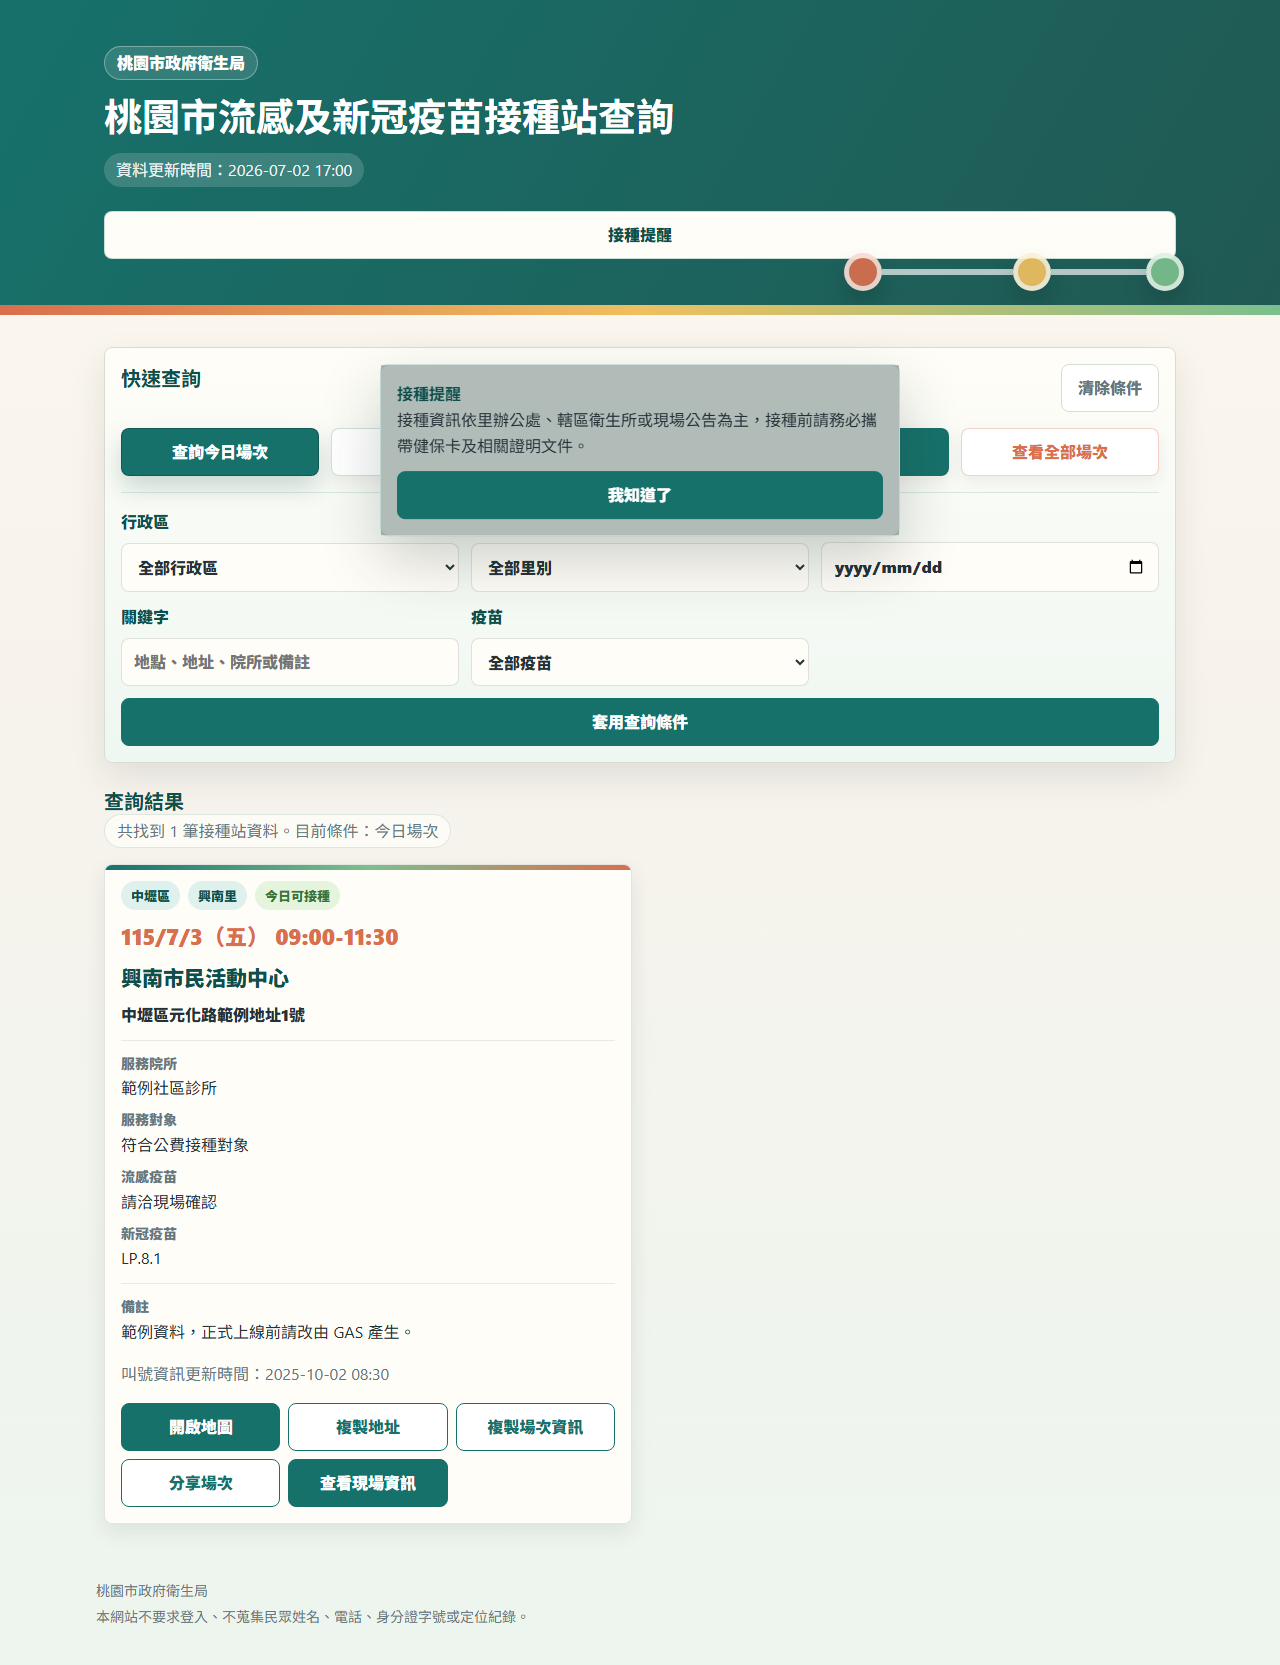
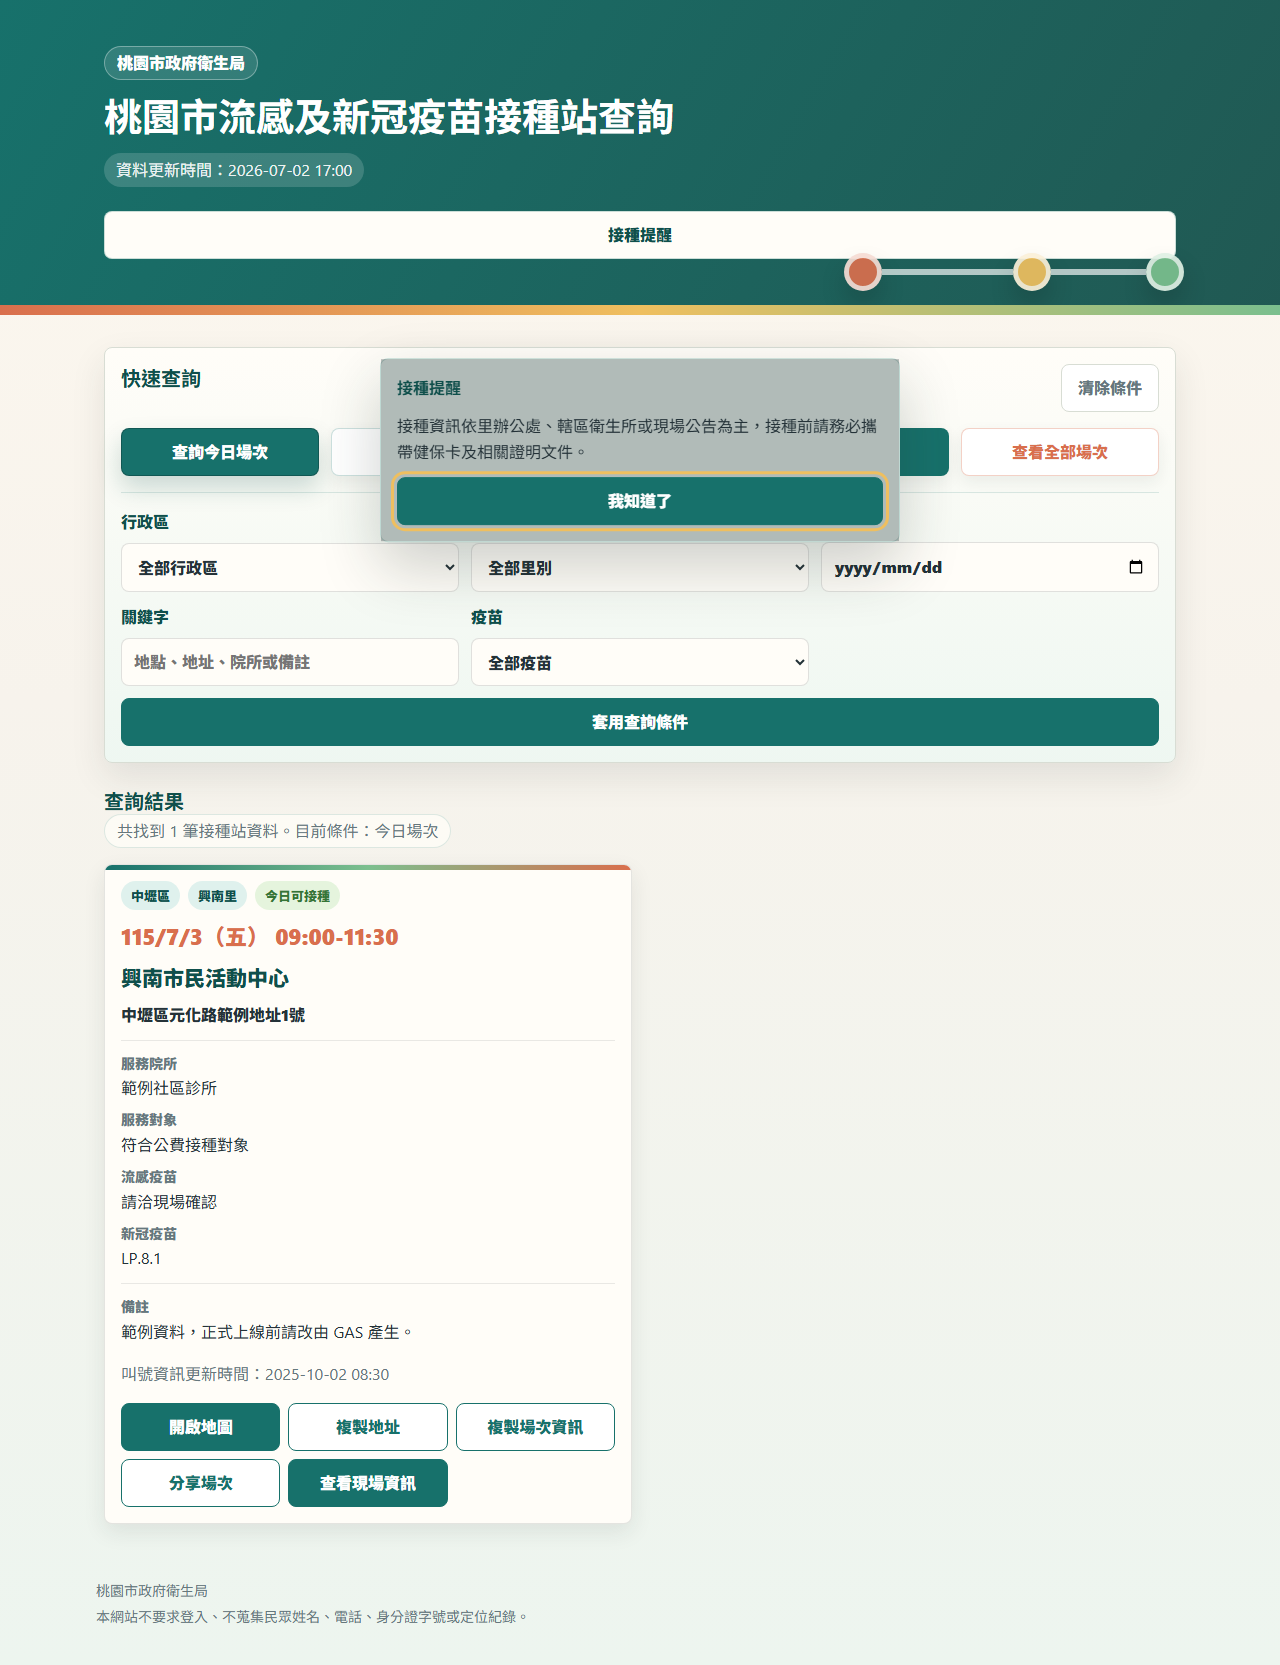
[UI介面] fix：補強提醒彈窗與空狀態流程

Changed region(s): [[0.3125, 0.1874, 0.6875, 0.3435]]

diff --git a/流感及新冠疫苗社區設站網站/gas/Index.html b/流感及新冠疫苗社區設站網站/gas/Index.html
@@ -1174,14 +1174,14 @@
 
     function renderMaintain() {
       const box = document.querySelector('#maintainList');
-      box.innerHTML = appState.sites.length ? appState.sites.map(siteCard).join('') : '<p>目前沒有資料。</p>';
+      box.innerHTML = appState.sites.length ? appState.sites.map(siteCard).join('') : emptyInfoBox('目前沒有資料。');
       bindSiteActions();
     }
 
     function renderReport() {
       const box = document.querySelector('#reportList');
       const reportable = appState.sites.filter((site) => site['資料狀態'] === '已發布');
-      box.innerHTML = reportable.length ? reportable.map(reportCard).join('') : '<p>目前沒有可回報場次。</p>';
+      box.innerHTML = reportable.length ? reportable.map(reportCard).join('') : emptyInfoBox('目前沒有可回報場次。');
       bindReportActions();
     }
 
@@ -1189,6 +1189,10 @@
       const box = document.querySelector('#searchList');
       box.innerHTML = rows && rows.length ? rows.map(siteCard).join('') : '<div class="info-box">查無符合條件的資料。</div>';
       bindSiteActions();
+    }
+
+    function emptyInfoBox(message) {
+      return `<div class="info-box">${escapeHtml(message)}</div>`;
     }
 
     function renderStats() {
@@ -1212,20 +1216,20 @@
         statHtml('尚未設站', coverage.uncoveredCount || 0)
       ].join('');
       const rows = coverage.uncovered || [];
-      document.querySelector('#uncoveredVillageList').innerHTML = rows.length ? rows.map(uncoveredVillageCard).join('') : '<p class="muted">目前沒有未設站里別，或尚未建立里別清冊。</p>';
+      document.querySelector('#uncoveredVillageList').innerHTML = rows.length ? rows.map(uncoveredVillageCard).join('') : emptyInfoBox('目前沒有未設站里別，或尚未建立里別清冊。');
       document.querySelector('#uncoveredVillageText').textContent = coverage.reminderText || '';
     }
 
     function renderUnlockReviews() {
       const pending = appState.sites.filter((site) => site['解鎖申請狀態'] === '待審核');
       const box = document.querySelector('#unlockReviewList');
-      box.innerHTML = pending.length ? pending.map(unlockReviewCard).join('') : '<p class="muted">目前沒有待審核解鎖申請。</p>';
+      box.innerHTML = pending.length ? pending.map(unlockReviewCard).join('') : emptyInfoBox('目前沒有待審核解鎖申請。');
       bindUnlockReviewActions();
     }
 
     function renderDelivery() {
       const box = document.querySelector('#deliveryList');
-      box.innerHTML = appState.deliveryTasks.length ? appState.deliveryTasks.map(deliveryCard).join('') : '<p>目前沒有配送任務。</p>';
+      box.innerHTML = appState.deliveryTasks.length ? appState.deliveryTasks.map(deliveryCard).join('') : emptyInfoBox('目前沒有配送任務。');
       bindDeliveryActions();
       renderDeliveryItems();
     }
@@ -1245,7 +1249,7 @@
 
     function renderVendorTasks(result) {
       const tasks = result.tasks || [];
-      document.querySelector('#vendorTaskList').innerHTML = tasks.length ? tasks.map(vendorTaskCard).join('') : '<p>此廠商目前沒有配送任務。</p>';
+      document.querySelector('#vendorTaskList').innerHTML = tasks.length ? tasks.map(vendorTaskCard).join('') : emptyInfoBox('此廠商目前沒有配送任務。');
       document.querySelectorAll('[data-vendor-report]').forEach((button) => {
         button.addEventListener('click', () => {
           const taskId = button.dataset.vendorReport;

diff --git a/流感及新冠疫苗社區設站網站/public/app.js b/流感及新冠疫苗社區設站網站/public/app.js
@@ -25,6 +25,7 @@ const elements = {
   cardList: document.querySelector("#cardList"),
   resetButton: document.querySelector("#resetButton"),
   noticeButton: document.querySelector("#noticeButton"),
+  closeNoticeButton: document.querySelector("#closeNoticeButton"),
   noticePanel: document.querySelector(".notice"),
   browserHint: document.querySelector("#browserHint")
 };
@@ -53,10 +54,12 @@ function bindEvents() {
   elements.districtFilter.addEventListener("change", () => {
     populateVillageOptions();
     render();
+    scrollToResults();
   });
 
   elements.resetButton.addEventListener("click", resetFilters);
   elements.noticeButton.addEventListener("click", openNotice);
+  elements.closeNoticeButton.addEventListener("click", closeNotice);
   document.addEventListener("keydown", (event) => {
     if (event.key === "Escape") closeNotice();
   });
@@ -165,6 +168,7 @@ function requestLocation() {
     showMessage("此瀏覽器不支援定位。您仍可使用行政區、日期或地點查詢。", "info");
     state.quickMode = "all";
     render();
+    scrollToResults();
     return;
   }
 
@@ -191,6 +195,8 @@ function requestLocation() {
 
 function resetFilters() {
   elements.filterForm.reset();
+  elements.districtFilter.dataset.initial = "";
+  elements.villageFilter.dataset.initial = "";
   state.quickMode = "all";
   state.userLocation = null;
   state.siteId = "";
@@ -523,27 +529,19 @@ function hideMessage() {
 
 function openNotice() {
   elements.noticePanel.classList.add("is-open");
-  ensureNoticeCloseButton();
+  document.body.classList.add("notice-open");
+  elements.closeNoticeButton.focus({ preventScroll: true });
 }
 
 function closeNotice() {
   elements.noticePanel.classList.remove("is-open");
+  document.body.classList.remove("notice-open");
 }
 
 function openNoticeOnce() {
   if (sessionStorage.getItem("vaccineNoticeSeen") === "1") return;
   sessionStorage.setItem("vaccineNoticeSeen", "1");
   openNotice();
-}
-
-function ensureNoticeCloseButton() {
-  if (elements.noticePanel.querySelector(".notice-close")) return;
-  const closeButton = document.createElement("button");
-  closeButton.type = "button";
-  closeButton.className = "notice-close";
-  closeButton.textContent = "我知道了";
-  closeButton.addEventListener("click", closeNotice);
-  elements.noticePanel.append(closeButton);
 }
 
 function scrollToResults() {

diff --git a/流感及新冠疫苗社區設站網站/public/index.html b/流感及新冠疫苗社區設站網站/public/index.html
@@ -27,9 +27,10 @@
   </header>
 
   <main class="layout" id="mainContent">
-    <section class="notice" aria-label="重要提醒">
-      <strong>接種提醒</strong>
+    <section class="notice" role="dialog" aria-modal="true" aria-labelledby="noticeTitle" aria-describedby="noticeText">
+      <strong id="noticeTitle">接種提醒</strong>
       <p id="noticeText">資料讀取中。</p>
+      <button class="notice-close" type="button" id="closeNoticeButton">我知道了</button>
     </section>
 
     <section class="browser-hint" id="browserHint" hidden>

diff --git a/流感及新冠疫苗社區設站網站/public/styles.css b/流感及新冠疫苗社區設站網站/public/styles.css
@@ -233,6 +233,10 @@ h2 {
   border-color: rgba(23, 113, 107, 0.22);
 }
 
+body.notice-open {
+  overflow: hidden;
+}
+
 .notice,
 .browser-hint,
 .search-panel,
@@ -257,7 +261,8 @@ h2 {
 }
 
 .notice.is-open {
-  display: block;
+  display: grid;
+  gap: var(--space-3);
 }
 
 .notice::before {
@@ -282,7 +287,10 @@ h2 {
 
 .notice-close {
   width: 100%;
-  margin-top: var(--space-3);
+}
+
+.result-area:focus {
+  outline: none;
 }
 
 .notice strong,

diff --git a/流感及新冠疫苗社區設站網站/version.py b/流感及新冠疫苗社區設站網站/version.py
@@ -1,3 +1,3 @@
-VERSION = "0.55.0"
+VERSION = "0.56.0"
 PROJECT_NAME = "流感及新冠疫苗社區設站網站"
 UPDATED_AT = "2026-07-03"

diff --git a/流感及新冠疫苗社區設站網站/docs/DEPLOYMENT_RECORD.md b/流感及新冠疫苗社區設站網站/docs/DEPLOYMENT_RECORD.md
@@ -91,6 +91,7 @@ firebase deploy --only hosting
 
 | 日期 | 部署人 | commit | Firebase 專案 ID | Hosting 網址 | 結果 | 備註 |
 |---|---|---|---|---|---|---|
+| 2026-07-03 11:16 | Codex / Firebase CLI | `732d741` | `tychb-vaccineweb` | `https://tychb-vaccineweb.web.app` | 成功 | `firebase deploy --only hosting --project tychb-vaccineweb` 成功；Firebase version `projects/839752443010/sites/tychb-vaccineweb/versions/7a6c9ec89f7b527a`，release `projects/839752443010/sites/tychb-vaccineweb/channels/live/releases/1783048591165000`。本次部署民眾端固定 modal 關閉按鈕、背景捲動鎖定與查詢流程修正。 |
 | 2026-07-03 11:04 | Codex / Firebase CLI | `d7c2b0f` | `tychb-vaccineweb` | `https://tychb-vaccineweb.web.app` | 成功 | `firebase deploy --only hosting --project tychb-vaccineweb` 成功；Firebase version `projects/839752443010/sites/tychb-vaccineweb/versions/f03d14fc125fb02d`，release `projects/839752443010/sites/tychb-vaccineweb/channels/live/releases/1783047873552000`。本次部署民眾端接種提醒彈窗與查詢後移動到結果區。 |
 | 2026-07-03 10:12 | Codex / Firebase CLI | `94d893c` | `tychb-vaccineweb` | `https://tychb-vaccineweb.web.app` | 成功 | `firebase deploy --only hosting --project tychb-vaccineweb` 成功；Firebase version `projects/839752443010/sites/tychb-vaccineweb/versions/fff5d9d66623dac6`，release `projects/839752443010/sites/tychb-vaccineweb/channels/live/releases/1783044733185000`。線上檢查通過，`app.js` 已含 `syncQuickActionState`、`aria-pressed`、`empty-mark`，CSS 已含快速查詢選取狀態、查詢摘要膠囊與卡片頂部色帶。 |
 | 2026-07-03 10:06 | Codex / Firebase CLI | `cd27ca1` | `tychb-vaccineweb` | `https://tychb-vaccineweb.web.app` | 成功 | `firebase deploy --only hosting --project tychb-vaccineweb` 成功；Firebase version `projects/839752443010/sites/tychb-vaccineweb/versions/a8ced0f0356e3950`，release `projects/839752443010/sites/tychb-vaccineweb/channels/live/releases/1783044384575000`。線上檢查通過，首頁已含 `header-inner`、`route-visual`，CSS 已含新版溫暖色系與結果區透明化樣式。 |
@@ -101,6 +102,7 @@ firebase deploy --only hosting
 
 | 日期 | 部署人 | Apps Script 專案 ID | Web App 部署 ID | 版本 | 結果 | 備註 |
 |---|---|---|---|---|---|---|
+| 2026-07-03 11:17 | Codex / clasp | `1dKdl7kRc-TyFLKOsaA09M4vNoqn6uU-FG2aSXl5M1bl9Kc9vgJ9h8oSR` | `AKfycbwNVIuv6lOjovyXejbBVEEXwQ2FH36v8EGyNDmNN8E7-JOI2G7gGE8kfBBhb3fTQ3jnsw` | `6` | 推送成功、部署成功、線上寫入測試通過 | `clasp push`、`clasp version "社區接種站填報系統V1.4 UI流程修正"`、`clasp redeploy ... -V 6 -d ...` 成功。GAS 主要清單空狀態改為盒狀訊息；`npm run test:gas:write` 通過，最新假資料 `SITE-20261231-0011` 已下架且未出現在公開 JSON。 |
 | 2026-07-03 11:05 | Codex / clasp | `1dKdl7kRc-TyFLKOsaA09M4vNoqn6uU-FG2aSXl5M1bl9Kc9vgJ9h8oSR` | `AKfycbwNVIuv6lOjovyXejbBVEEXwQ2FH36v8EGyNDmNN8E7-JOI2G7gGE8kfBBhb3fTQ3jnsw` | `5` | 推送成功、部署成功、線上寫入測試通過 | `clasp push`、`clasp version "社區接種站填報系統V1.3 UI流程調整"`、`clasp redeploy ... -V 5 -d ...` 成功。GAS 後台部署 PC 一頁式填報、進階篩選與面板化 UI；`npm run test:gas:write` 通過，最新假資料 `SITE-20261231-0010` 已下架且未出現在公開 JSON。 |
 | 2026-07-03 10:39 | Codex / clasp | `1dKdl7kRc-TyFLKOsaA09M4vNoqn6uU-FG2aSXl5M1bl9Kc9vgJ9h8oSR` | `AKfycbwNVIuv6lOjovyXejbBVEEXwQ2FH36v8EGyNDmNN8E7-JOI2G7gGE8kfBBhb3fTQ3jnsw` | `4` | 推送成功、部署成功、線上寫入測試通過 | 修正 `objectFromRow_()` 將 Google Sheet `Date` 物件轉成可由 `google.script.run` 回傳的字串，並讓接種日期維持 `yyyy-MM-dd`；`npm run test:gas:write` 通過，最新假資料 `SITE-20261231-0009` 已下架且未出現在公開 JSON。 |
 | 2026-07-03 09:39 | Codex / clasp | `1dKdl7kRc-TyFLKOsaA09M4vNoqn6uU-FG2aSXl5M1bl9Kc9vgJ9h8oSR` | `AKfycbwNVIuv6lOjovyXejbBVEEXwQ2FH36v8EGyNDmNN8E7-JOI2G7gGE8kfBBhb3fTQ3jnsw` | `2` | 推送成功、部署成功、瀏覽器實測待承辦人確認 | 已推送 `程式碼.js`、`Index.html`、`appsscript.json`；部署清單顯示 `社區接種站填報系統V1.0 @2`。命令列直接檢查 `/exec` 回傳 `403 Forbidden`。 |

diff --git a/流感及新冠疫苗社區設站網站/docs/TEST_EXECUTION_RECORD.md b/流感及新冠疫苗社區設站網站/docs/TEST_EXECUTION_RECORD.md
@@ -43,7 +43,17 @@
 | UI 流程調整 GAS Web App 檢查 | `npm run test:gas:webapp` | 通過 | 已檢查正確 Web App URL HTTP 200 與 GAS 首頁入口，截圖 `docs/test-evidence/gas-webapp-home.png` |
 | UI 流程調整 GAS 假資料寫入檢查 | `npm run test:gas:write` | 通過 | 最新測試假資料 ID `SITE-20261231-0010`，測試最後已下架且公開 JSON 不含該資料 |
 
-## 4. 截圖證據
+## 4. 2026-07-03 版本 0.56.0 測試摘要
+
+| 測試項目 | 指令或證據 | 結果 | 備註 |
+|---|---|---|---|
+| 第 2 批 UI 流程本機檢查 | `npm run test:local` | 通過 | 已檢查固定 modal 關閉按鈕、背景捲動鎖定、結果區跳轉與 GAS 盒狀空狀態 |
+| 第 2 批 UI 流程 RWD 檢查 | `node scripts/rwd-check.mjs` | 通過 | 已更新 `docs/test-evidence/public-mobile.png` 與 `docs/test-evidence/public-desktop.png` |
+| 第 2 批 UI 流程 Firebase 線上檢查 | `npm run test:online` | 通過 | 已檢查 `https://tychb-vaccineweb.web.app` 首頁、`public.json` 與 `app.js` |
+| 第 2 批 UI 流程 GAS Web App 檢查 | `npm run test:gas:webapp` | 通過 | 已檢查正確 Web App URL HTTP 200 與 GAS 首頁入口，截圖 `docs/test-evidence/gas-webapp-home.png` |
+| 第 2 批 UI 流程 GAS 假資料寫入檢查 | `npm run test:gas:write` | 通過 | 最新測試假資料 ID `SITE-20261231-0011`，測試最後已下架且公開 JSON 不含該資料 |
+
+## 5. 截圖證據
 
 | 截圖 | 用途 |
 |---|---|
@@ -51,7 +61,7 @@
 | `docs/test-evidence/public-desktop.png` | 民眾端桌機版 RWD 驗收 |
 | `docs/test-evidence/gas-webapp-home.png` | GAS Web App 首頁線上載入驗收 |
 
-## 5. 尚需實機驗證
+## 6. 尚需實機驗證
 
 以下項目需在 Google Apps Script 與 Google Sheet 寫入環境測試；目前已完成 Web App 首頁、功能入口、假資料草稿新增、查詢、接種人數回報、下架清理與公開 JSON 排除測試資料：
 
@@ -68,7 +78,7 @@
 11. Firebase Hosting 正式網址是否可正常讀取 `public.json`。（目前 `scripts/online-check.mjs` 可做基本檢查，仍需搭配人工實測操作流程。）
 12. LINE 內建瀏覽器、手機定位、地圖、分享功能是否可操作。
 
-## 6. 失敗紀錄格式
+## 7. 失敗紀錄格式
 
 若後續測試失敗，請新增一筆紀錄：
 

diff --git a/流感及新冠疫苗社區設站網站/docs/AI_HANDOVER.md b/流感及新冠疫苗社區設站網站/docs/AI_HANDOVER.md
@@ -380,7 +380,15 @@ python -m http.server 5173 -d public
 5. 民眾端快速查詢、表單查詢、定位查詢完成後會移動到結果區。
 6. `scripts/local-check.mjs` 已加入彈窗、結果區跳轉、GAS 一頁式填報與進階篩選的結構檢查。
 
-## 15. 目前第一版功能狀態
+## 15. 2026-07-03 版本 0.56.0 更新摘要
+
+1. 民眾端接種提醒改為固定 HTML modal 結構，加入 `role="dialog"`、`aria-modal` 與固定關閉按鈕。
+2. 民眾端提醒視窗開啟時會鎖定背景捲動，並將焦點移到關閉按鈕。
+3. 民眾端行政區切換、重設查詢與不支援定位情境會移動到結果區。
+4. GAS 主要清單空狀態改用 `info-box` 盒狀訊息，減少散落文字。
+5. `scripts/local-check.mjs` 已補上 modal、結果區跳轉與 GAS 盒狀空狀態檢查。
+
+## 16. 目前第一版功能狀態
 
 ### 已具備程式骨架
 
@@ -457,7 +465,7 @@ python -m http.server 5173 -d public
 5. 管理碼審核解鎖流程。
 6. 正式已發布資料產生的 `public.json` 是否可放入 Firebase 前台。
 
-## 16. 下一步建議
+## 17. 下一步建議
 
 1. 請承辦人用瀏覽器登入 `tychbniis@gmail.com`，開啟 GAS Web App `/exec`，完成 Apps Script 首次授權並確認部署存取權。
 2. 在測試 Google Sheet 執行 `setupWorkbook()`。

diff --git a/流感及新冠疫苗社區設站網站/CHANGELOG.md b/流感及新冠疫苗社區設站網站/CHANGELOG.md
@@ -1,5 +1,19 @@
 # Changelog
 
+## [0.56.0] - 2026-07-03
+
+### Changed
+
+- 民眾端接種提醒改為固定 HTML modal 結構，加入 `role="dialog"`、`aria-modal` 與固定關閉按鈕。
+- 民眾端提醒視窗開啟時鎖定背景捲動，關閉按鈕取得焦點，降低手機誤操作。
+- 民眾端行政區切換、重設查詢與不支援定位情境補齊結果區跳轉。
+- GAS 主要清單空狀態改為 `info-box` 盒狀訊息，減少散落文字。
+- 本機檢查補上提醒 modal、結果區跳轉、GAS 盒狀空狀態的結構驗證。
+
+### Tested
+
+- `npm run test:local`
+
 ## [0.55.0] - 2026-07-03
 
 ### Changed
